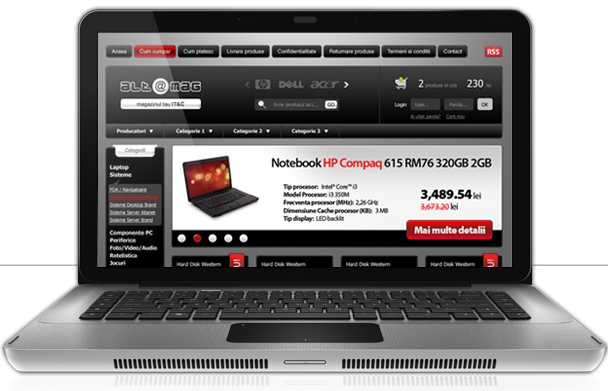
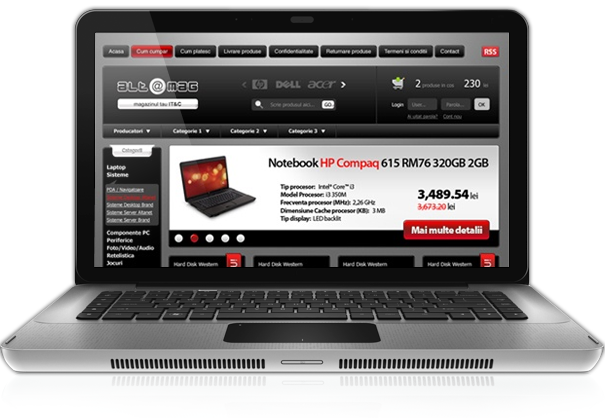
ex4 added

diff --git a/example4/css/style.css b/example4/css/style.css
@@ -7,24 +7,39 @@ body {
 	margin: 0 auto;
 	background: url(../images/brush-bg.png) no-repeat 9% 0%;
 	}
+.glowing-bg {
+	background: url(../images/gloving-bg.png) no-repeat 50% 50%;
+}	
 header,
 footer {
 	width: 960px;
 	margin: 0 auto;
 	}
-	
+.header {
+	margin: 0 auto 40px;
+	padding: 23px 0 0 19px;
+}	
+.header .logo {
+	width: 213px;
+	height: 113px;
+	float: left;
+}	
 .header-nav{
 	float: right;
-	margin: 30px 35px;
+	margin: 28px 30px;
 	}
 .header-nav li {
 	display: inline-block;
+	display: inline;
+	zoom:1;
+	vertical-align: middle;
+	padding: 10px 0;
 	}
 .header-nav li a {
 	font: 16px Arial, sans-serif;
 	color: #fff;
 	text-decoration: none;
-	margin-left: 10px;
+	margin-left: 12px;
 	padding: 10px 16px;
 	}
 .header-nav li a:hover,
@@ -32,24 +47,104 @@ footer {
 	background: url(../images/nav-bg.png);		
 	border-radius: 2px;
 	} 
-	/*projects*/
-	/*main-content*/
+/*projects*/
+.proj {
+	width: 960px;
+	margin: 0 auto;
+	padding: 100px 0;
+}	
+.proj h2 {
+	margin: -40px 30px 0;
+	}
+.proj h2 a {
+	font: bold 32px Rockwell, serif;
+	text-decoration: none;
+	color: #fff;
+}	
+.projects {
+	margin-top: 25px;
+	height: 217px; 
+	width: 960px;
+	background: url(../images/project-nav-bg.png) repeat-x 50% 50%;
+	border-radius: 5px;
+}
+.lefth2 {
+	float: left;
+}
+.righth2 {
+	float: right;
+}
+.navigation {
+	height: 217px;
+}
+.navigation ul {
+	background: url(../images/glow-bg.png) no-repeat bottom left;
+	height: 217px;
+	position: relative;
+}
+.navigation ul li{
+	width: 30%;
+	*display: inline;
+	*zoom: 1;
+	vertical-align: bottom;
+}	
+.navigation ul li a {
+	font: 32px Rockwell, serif;
+	text-decoration: none;
+	color: #fff;
+}
+.navigation .web-design-img a,
+.navigation .web-coding-img a{
+	border: 4px solid #000;
+	border-radius: 4px;
+	margin: 30px 20px;
+	width: 204px;
+	height: 105px;
+}
+.navigation .web-design-img {
+	float: left;
+}
+.navigation .web-coding-img {
+	float: right;
+}
+.navigation .web-design-img a {
+	float: left;
+	background: url(../images/left-nav.png) 50% 100% no-repeat;
+}	
+.navigation .web-coding-img a{
+	float: right;
+	background: url(../images/right-nav.png) 100% 100% no-repeat;
+	}
+.navigation .laptop {
+	width: 63%;
+	position: absolute;
+	top: -48%;
+	left: 18.5%;
+}	
+/*main-content*/
 .main-content {
 	background: #f5f4f5 url(../images/main-bg.png);
-    padding: 30px 0 5px;
+    margin: 0 0 5px 0;
+	height: 366px;
+	border-top: 7px solid black;
+	border-bottom: 7px solid black;
 	}
 .main-content-section{
 	width: 960px;
-	margin: 0 auto 22px auto;
+	margin: 30px auto 22px auto;
 	}
 .main-content h3 {
-	font: 17px Rockwell, serif;
-	color: #000;
 	padding: 16px 40px 15px 0;
 	margin-bottom: 34px;
-	font-weight: 600;
-	letter-spacing: -.6px;
+	letter-spacing: -.05em;
 	}	
+.main-content h3 a,
+.networks-support-online {
+	font: 17px Rockwell, serif;
+	font-weight: 600;
+	color: #000;
+	text-decoration: none;
+}
 .main-content p,
 .networks-support,
 .signature,
@@ -61,7 +156,7 @@ footer {
 	/*networks-support*/
 .networks-support {
 	float: right;
-    padding: 0 0 23px 32px;
+    padding: 0 0 25px 32px;
 	background: url(../images/split.png) top left repeat-y;
 	width: 30%;
 	}
@@ -74,23 +169,21 @@ footer {
 	}	
 .networks {
     padding: 2px 0 29px;
-
 }	
 .networks li {
     padding: 2px 0 9px 30px;
-	
-	}
+	float: left;
+	width: 82%;
+}
 .networks li a {
-	text-align: justify;
+	float: left;
 	text-decoration: none;
 	color: #555;
 	padding-left: 4px;
 	}
-	
-.networks li a .network-count {
+.networks li .network-count a {
 	float: right;
 	text-decoration: underline;
-   padding-right: 25px;
 	}
 .networks .networks-rss {
 	background: url(../images/rss-icon.png) no-repeat;
@@ -107,7 +200,7 @@ footer {
 .main-content-subarticle {
 	float: left;
 	width: 43%;
-	padding:  0 22px 25px 30px;
+	padding:  0 22px 20px 30px;
 	background: url(../images/split.png) top right repeat-y;
 	}
 .main-content-subarticle h3 {
@@ -118,13 +211,11 @@ footer {
 	}
 .main-content-subarticle p {
 	line-height: 1.5;
-
 	}
 .main-content-bquote {
     padding:0  26px;
 	float: left;
 	width: 37%;
-
 	}
 .main-content-bquote h3 {
 	background: url(../images/pencil.png) no-repeat 57% 50%;
@@ -159,11 +250,38 @@ footer {
 .copy {
 	font: 14px Rockwell, serif;
 	color: #fff;
-    padding: 31px 52px 140px 28px;
-	background: url(../images/go-logo-small.png) no-repeat 100% 8%;
+    padding: 17px 52px 20px 28px;
+	background: url(../images/go-logo-small.png) no-repeat 100% 0%;
 	width: 15%;
 	}	
-		
+
+	
+	
+	
+	
+	
+	
+	
+	
+	
+	
+	
+	
+	
+	
+	
+	
+	
+	
+	
+	
+	
+	
+	
+	
+	
+	
+	
 .clearfix:after
 {
 	content: ".";

diff --git a/example4/example4.html b/example4/example4.html
@@ -5,42 +5,58 @@
 		<meta charset="utf-8" />
 		<link href="css/reset.css" media="" rel="stylesheet" type="text/css" />
 		<link href="css/style.css" media="" rel="stylesheet" type="text/css" />
+		<!--[if lt IE 9]>
+			<script>
+			document.createElement('header');
+			document.createElement('nav');
+			document.createElement('section');
+			document.createElement('article');
+			document.createElement('aside');
+			document.createElement('footer');
+			</script>
+		<![endif]-->
 	</head>
 	<body>
 		<section class="wrapper clearfix"><!--wrapper start-->
-			<header>
-				<img src="images/go-logo.png" alt="go-logo" />
-				<ul class="header-nav">
-					<li><a href="#" class="active">home</a></li>
-					<li><a href="#">portfolio</a></li>
-					<li><a href="#">webhosting</a></li>
-					<li><a href="#">about</a></li>
-				</ul>
-			</header>
-			<section class="projects"><!--projects start-->
-				<nav class="navigation">
-					<ul>
-						<li><a href="">WebDesign</a></li>
-						<li><a href="">last project</a></li>
-						<li><a href="">WobCoding</a></li>
+			<section class="glowing-bg clearfix">
+				<header class="header clearfix">
+					<img src="images/go-logo.png" class="logo" alt="go-logo" />
+					<ul class="header-nav">
+						<li><a href="#" class="active">home</a></li>
+						<li><a href="#">portfolio</a></li>
+						<li><a href="#">webhosting</a></li>
+						<li><a href="#">about</a></li>
 					</ul>
-				</nav>
-			</section>
-			<section class="main-content"><!--main-cntent start-->
+				</header>
+				<section class="proj">
+					<h2 class="lefth2"><a href="#">WebDesign</a></h2>
+					<h2 class="righth2"><a href="#">WebCoding</a></h2>
+					<section class="projects"><!--projects start-->
+					<nav class="navigation clearfix">
+						<ul>
+							<li class="web-design-img"><a href=""></a></li>
+							<li class="laptop"><img src="images/laptop.png" alt="laptop" />"</li>
+							<li class="web-coding-img"><a href=""></a></li>
+						</ul>
+					</nav>
+					</section>
+			</section><!--proj end-->
+			</section><!--glowing-bg end-->
+			<section class="main-content"><!--main-content start-->
 				<section class="main-content-section clearfix"><!--main-content -section-->
 						<aside class="networks-support">
-							<h3 class="networks-support-network">Networks</h3>
+							<h3 class="networks-support-network"><a href="#">Networks</a></h3>
 							<ul class="networks clearfix">
-								<li class="networks-rss clearfix"><a href="">Subscribe by RSS <span class="network-count"> 20 readers</span></a></li>
-								<li class="networks-twitter clearfix"><a href="">Follow us on Twitter <span class="network-count">150 followers</span></a></li>
-								<li class="networks-fb clearfix"><a href="">Become a fan <span class="network-count">33 fans</span></a></li>
+								<li class="networks-rss clearfix"><a href="#">Subscribe by RSS</a><span class="network-count"><a href=""> 20 readers</a></span></li>
+								<li class="networks-twitter clearfix"><a href="#">Follow us on Twitter</a><span class="network-count"><a href="#">150 followers</a></span></li>
+								<li class="networks-fb clearfix"><a href="#">Become a fan</a><span class="network-count"><a href="#">33 fans</a></span></li>
 							</ul>
 							<h3 class="networks-support-online">Online support</h3>
 							<span class="online-sup">Lorem Ipsum is simply dummy text of. </span>
 					</aside>
 					<article class="main-content-article clearfix">
 						<div class="main-content-subarticle">
-							<h3><span class="red">WebDesign </span>and <span class="red">WebCoding</span></h3>
+							<h3><a href="#"><span class="red">WebDesign </span>and <span class="red">WebCoding</span></a></h3>
 							<p>Lorem Ipsum is simply dummy text of the printing 
 									and typesetting industry. 
 									Lorem Ipsum has been the industry's standard 
@@ -55,7 +71,7 @@
 							</p>
 						</div>
 						<div class="main-content-bquote">
-							<h3>Testimonials</h3>
+							<h3><a href="#">Testimonials</a></h3>
 							<blockquote>
 								<p class=bquote-open>Lorem Ipsum is simply dummy t
 									ext of the printing and typesetting industry. 
